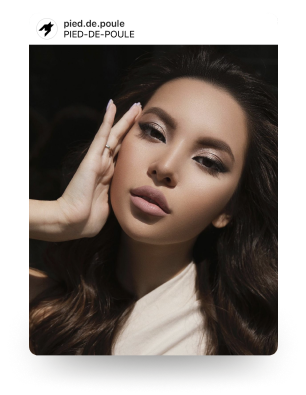
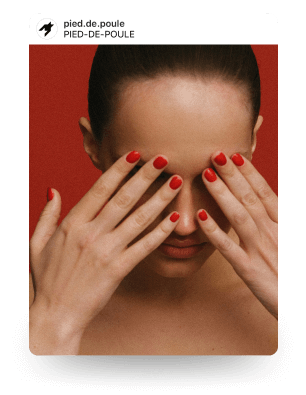
-updated instagram block images;

diff --git a/homepage.php b/homepage.php
@@ -71,7 +71,7 @@ $slides = carbon_get_post_meta( $page_id, 'slides' );
                     <div class="instagram__desc"><?=carbon_get_the_post_meta( 'instagram_description' ); ?></div>
 
                     <a href="<?=carbon_get_the_post_meta( 'instagram_link' ); ?>" class="btn btn--icon">
-                        <svg width="18" height="18" fill="none" xmlns="http://www.w3.org/2000/svg">
+                        <svg width="18" height="18" fill="none">
                             <path d="M8.63.37c1.34 0 2.67-.03 4 0 1.75.03 3.08.82 4 2.29.47.73.66 1.55.66 2.42v7.85a4.7 4.7 0 0 1-4.63 4.7h-8A4.7 4.7 0 0 1 0 12.94V5.1A4.67 4.67 0 0 1 4.68.37h3.95Zm.03 1.58H4.79c-.21 0-.43.03-.65.06a3.13 3.13 0 0 0-2.56 3.13v7.79c0 .21.03.43.05.65a3.13 3.13 0 0 0 3.14 2.53h7.76c.22 0 .43-.03.62-.05a3.13 3.13 0 0 0 2.56-3.13v-7.8c0-.6-.13-1.16-.49-1.68a3.04 3.04 0 0 0-2.7-1.47c-1.27-.03-2.58-.03-3.86-.03Z"/>
                             <path d="M12.83 9a4.16 4.16 0 0 1-4.14 4.14A4.13 4.13 0 1 1 12.83 9Zm-4.17 2.46a2.44 2.44 0 0 0 2.48-2.43 2.48 2.48 0 1 0-2.48 2.43ZM14.02 4.48a.8.8 0 0 1-.81.82.83.83 0 0 1-.85-.82.8.8 0 0 1 .82-.81c.46 0 .84.35.84.81Z"/>
                         </svg>
